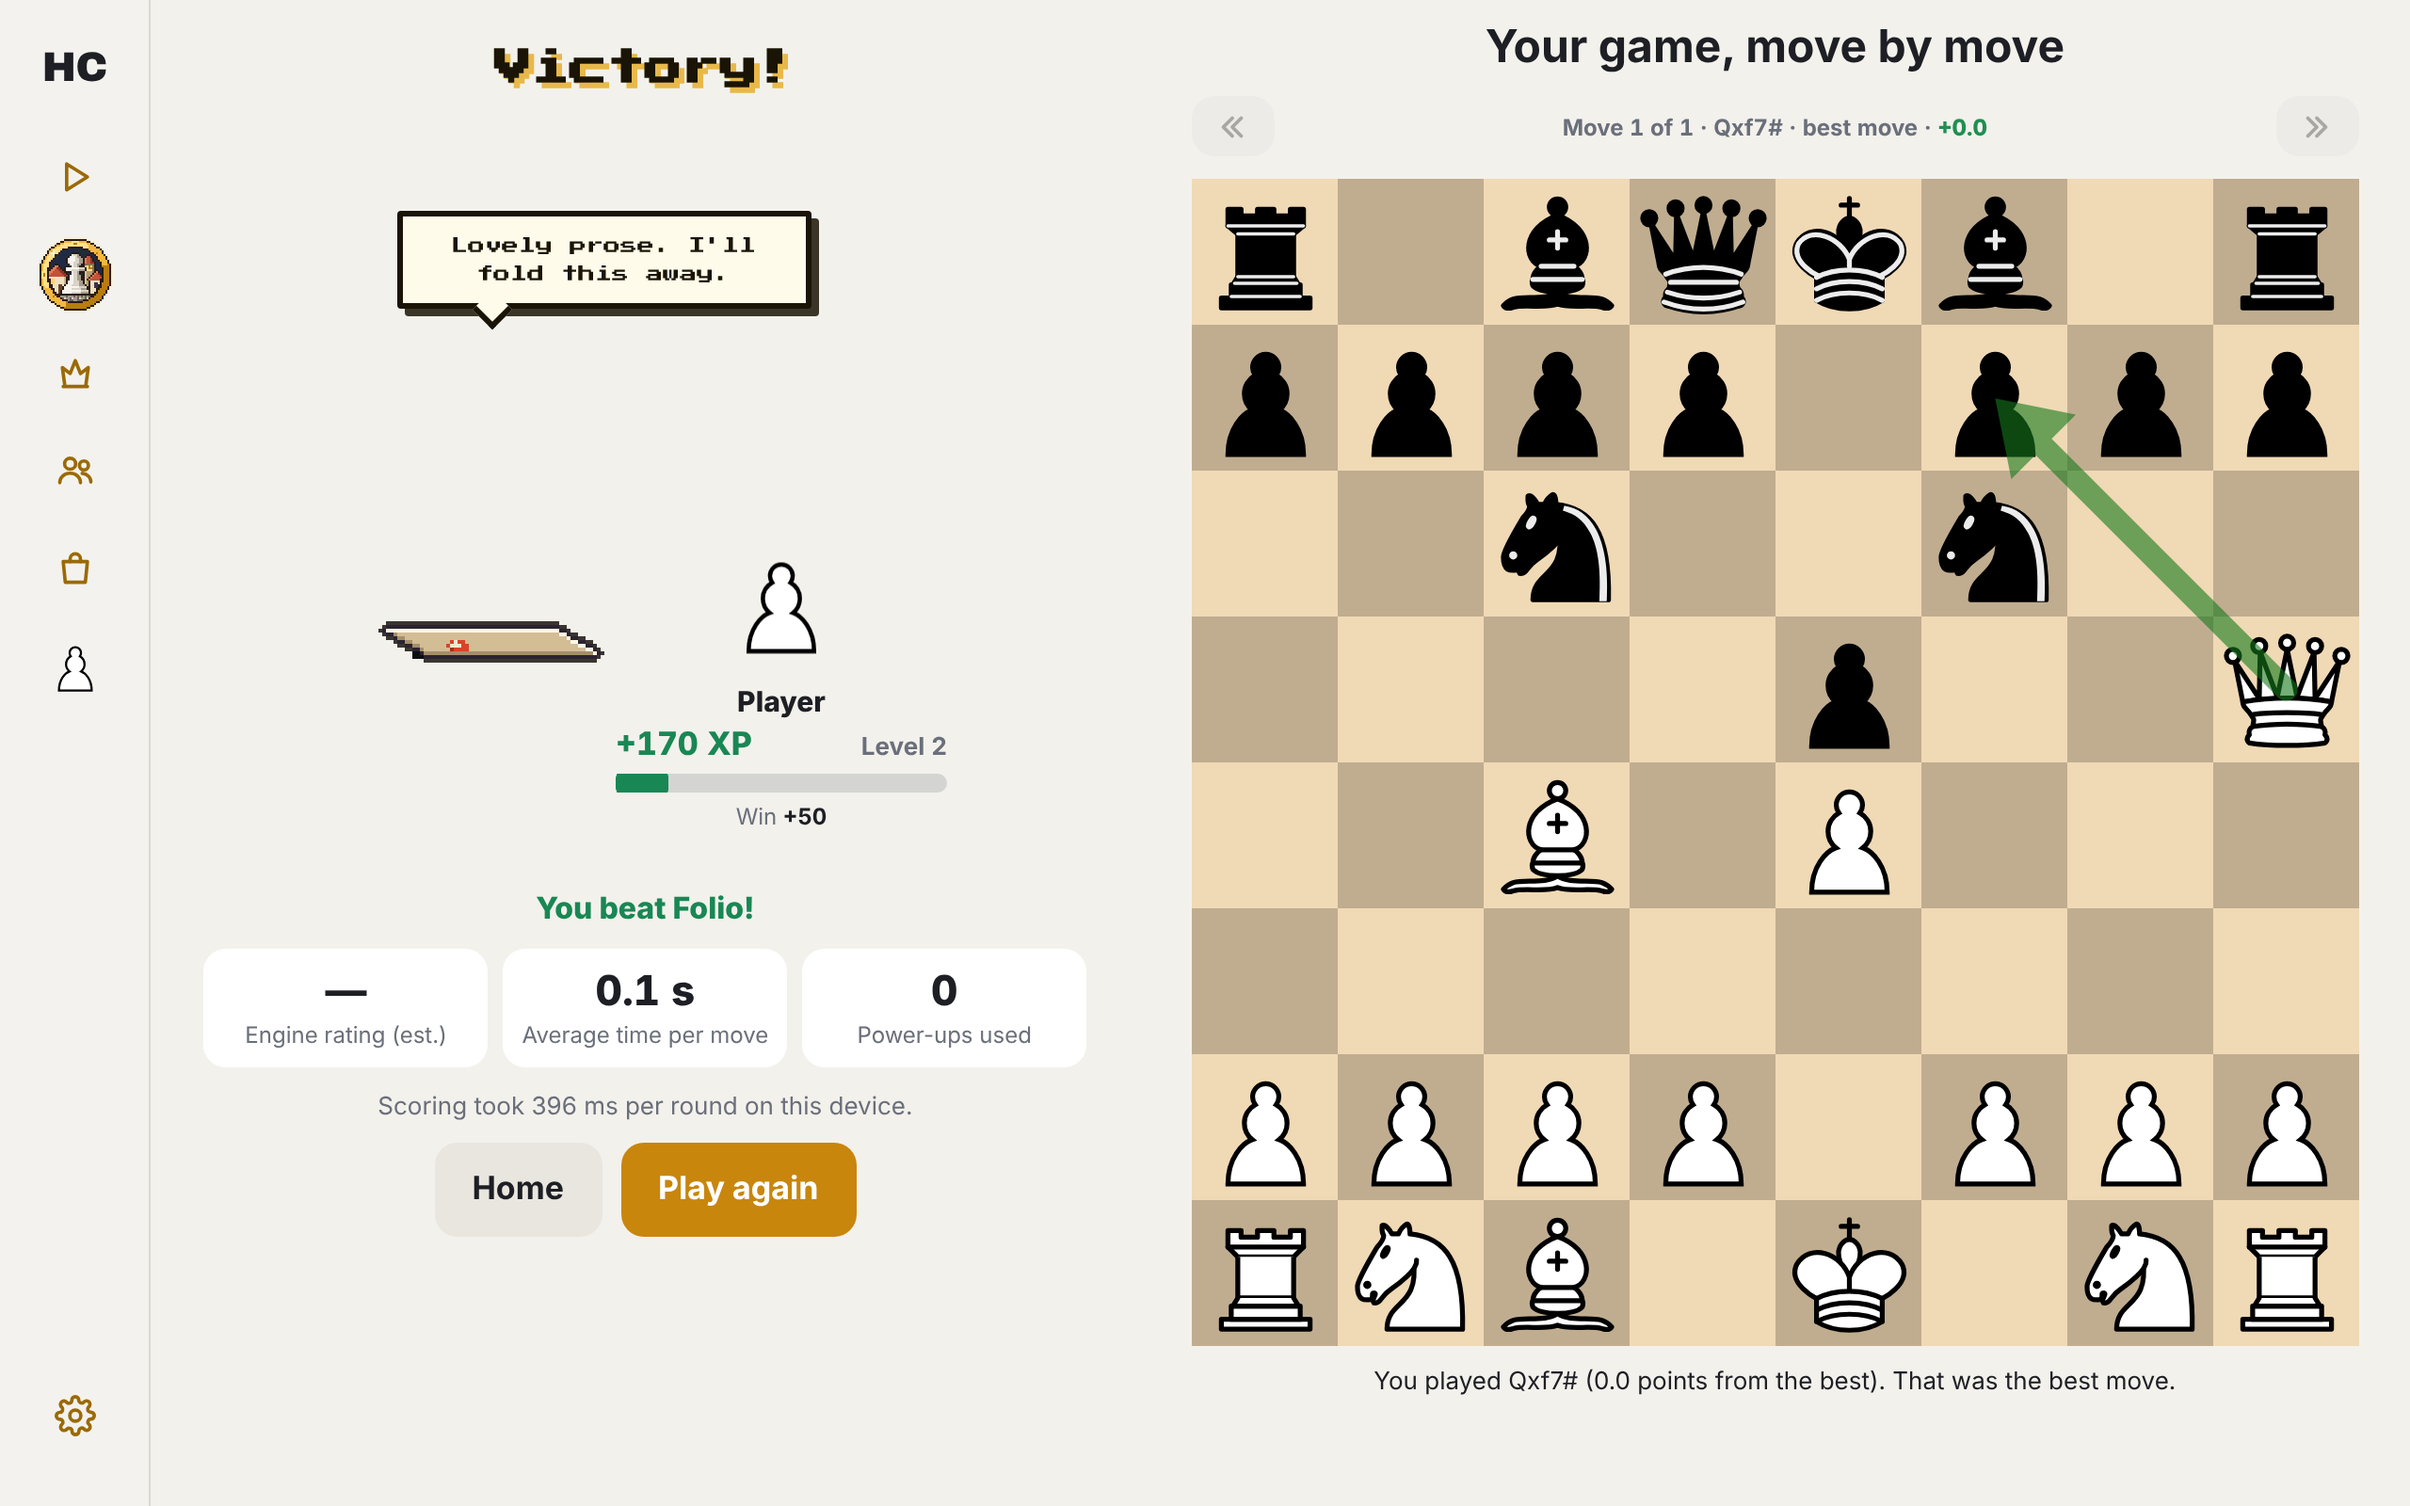
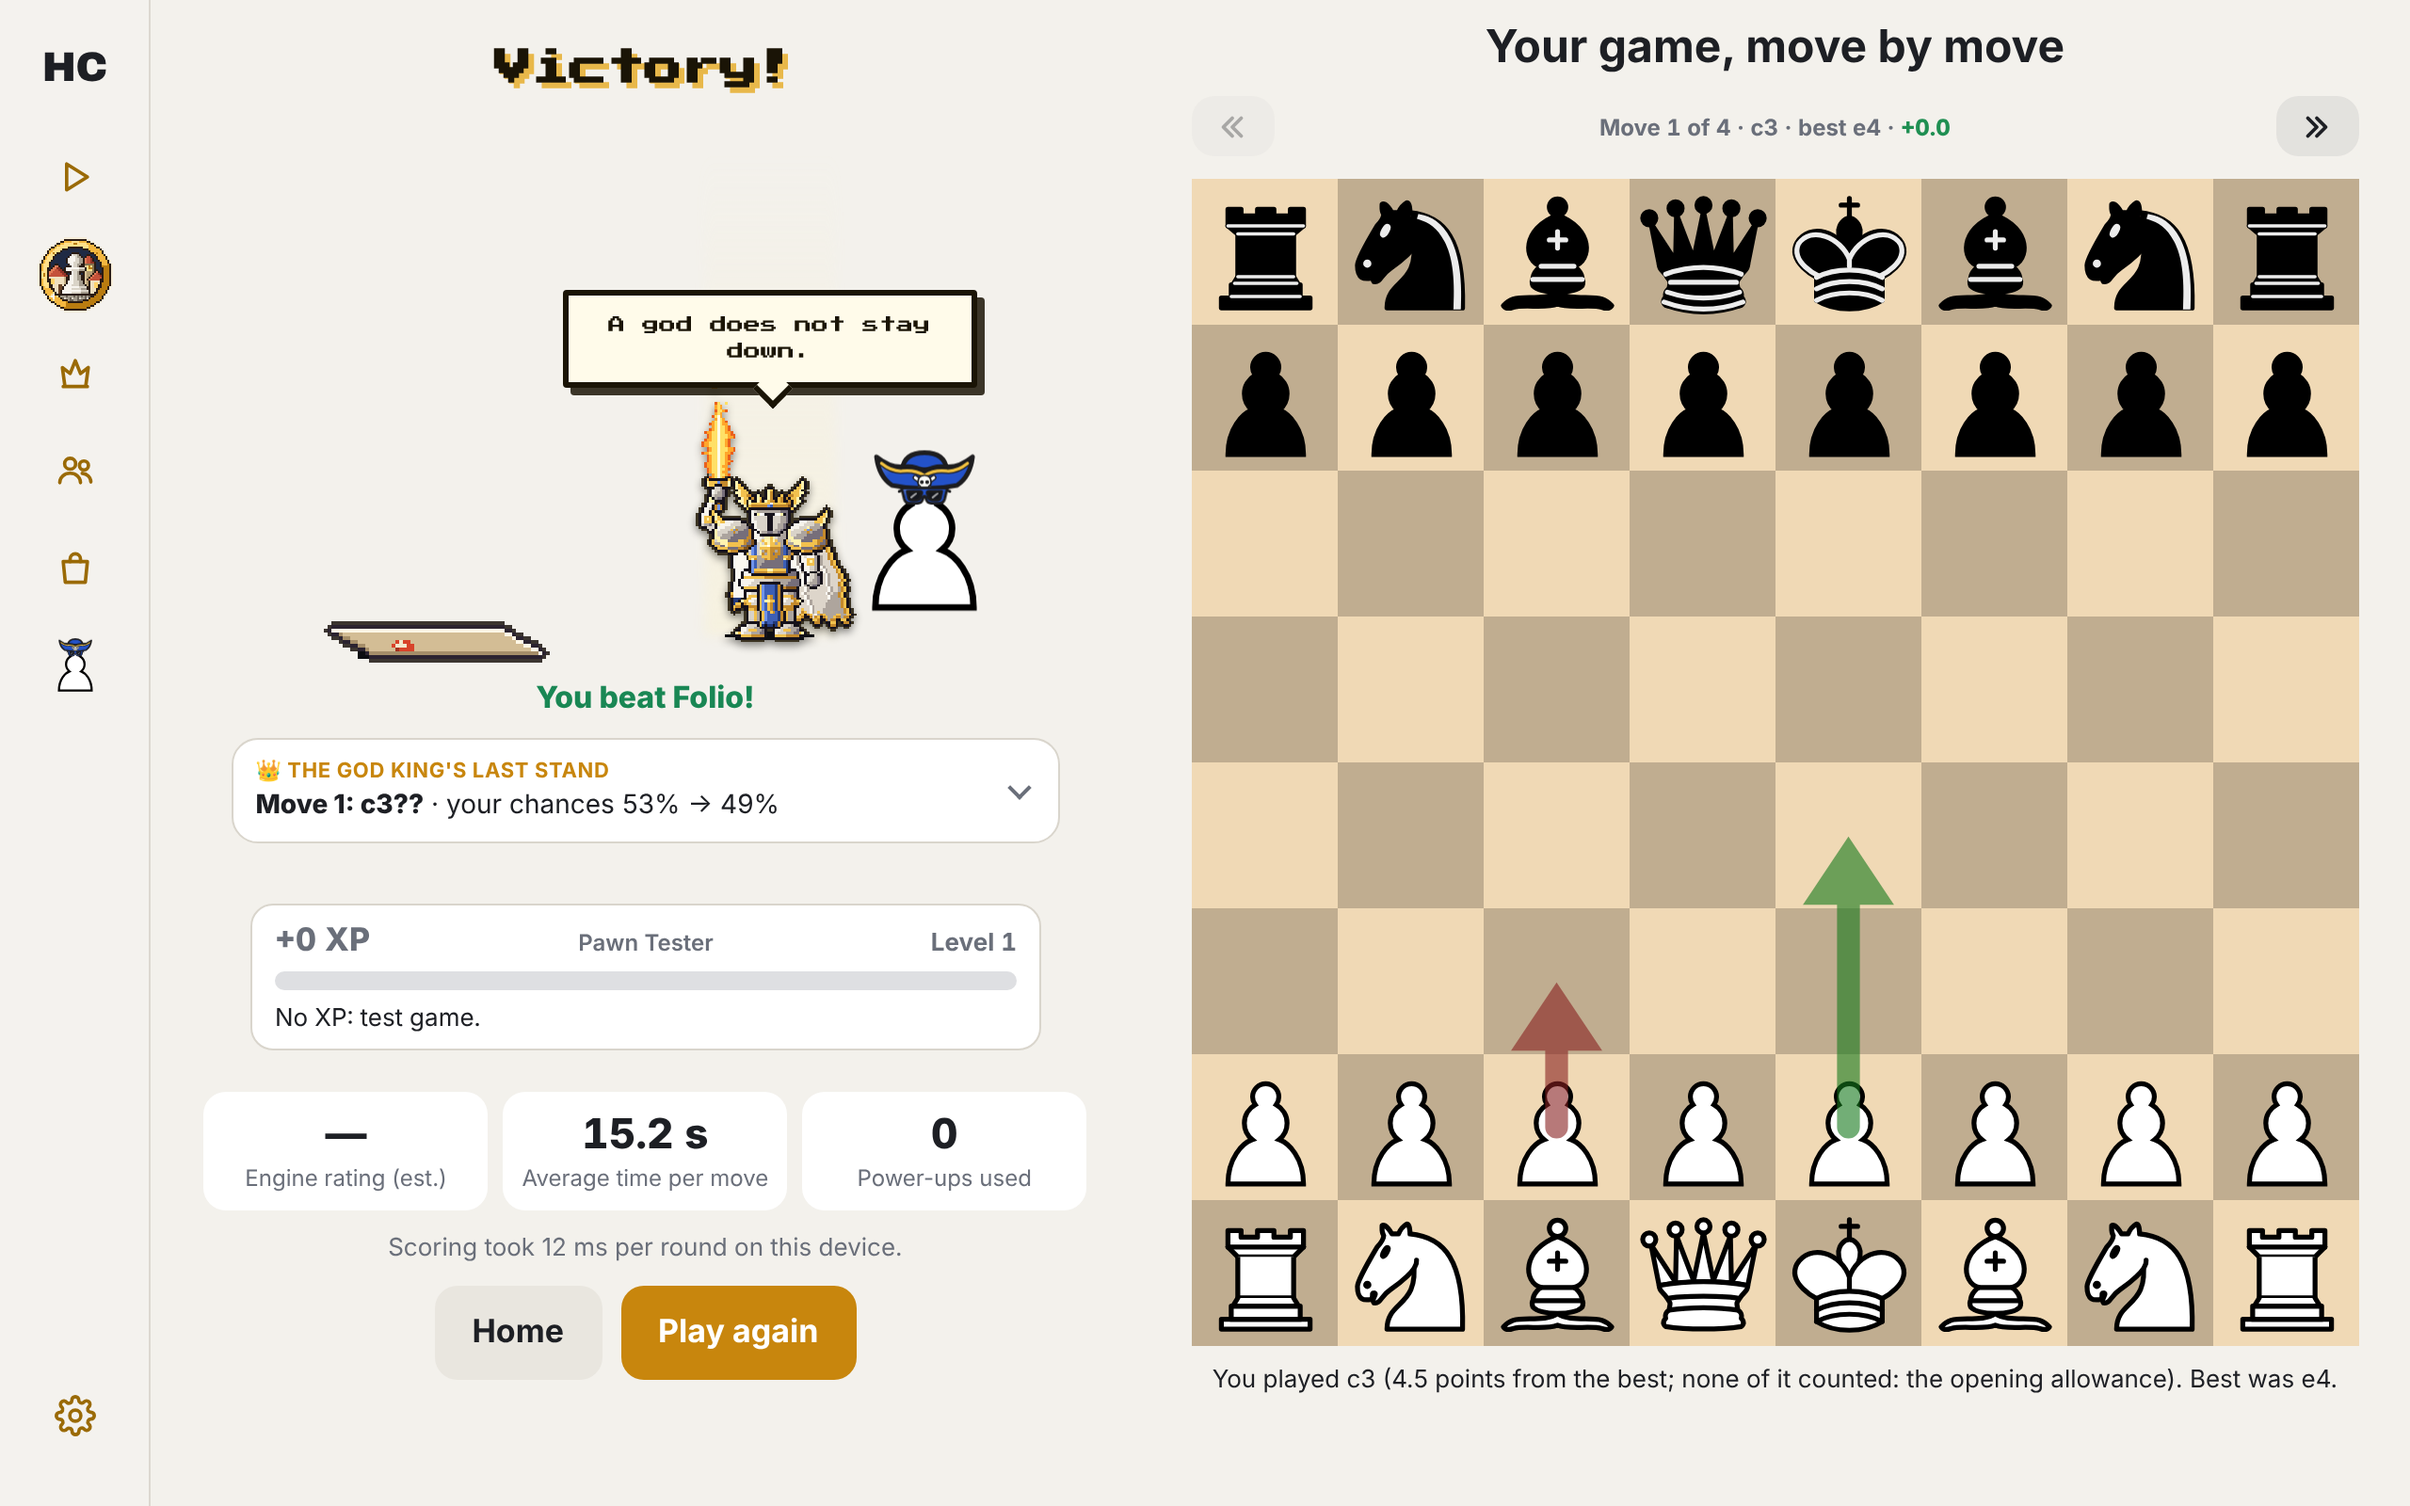
Boss result stills, round 2: the dressed pawn (pirate hat, dark shades) on the Last Stand row, 390 and 1280 px
Claude-Session: https://claude.ai/code/session_01JuCWRsaru8sh3761MT3s2m

diff --git a/README.md b/README.md
@@ -1,8 +1,10 @@
 # Boss result v2 stills (Nov 9)
 
+Round 2 (Nov 9): Eric's pawn is bigger on the Last Stand row (`.results-duo`), and the stills show it dressed in a pirate hat and dark shades (no weapon: see .round2.md on claude/boss-result-v2). The win stills are real screens, taken from a Last Stand; the loss still below is still the round-1 one (undressed).
+
 At deviceScaleFactor 2, from `scripts/frames-boss-result.mjs` (FULL=1; DSF=2 for the computer).
 
-- `phone-win-alfil.png`: a win against Alfil (wide), 390 px.
+- `phone-win-alfil.png`: a win against Alfil, 390 px, dressed (round 2).
 - `phone-loss-ginger-mid-attack.png`: a loss to Ginger, 1.1 s in: his cane jab at your pawn, which flashes.
-- `computer-win-folio.png`: a win against Folio (mirrored), 1280 px.
+- `computer-win-folio.png`: a win against Folio (mirrored), 1280 px, dressed (round 2).
 - `phone-loss-hollow-attack-strip.png`: Hollow attacking on a loss, 0.2 to 2.3 s (the row only).
